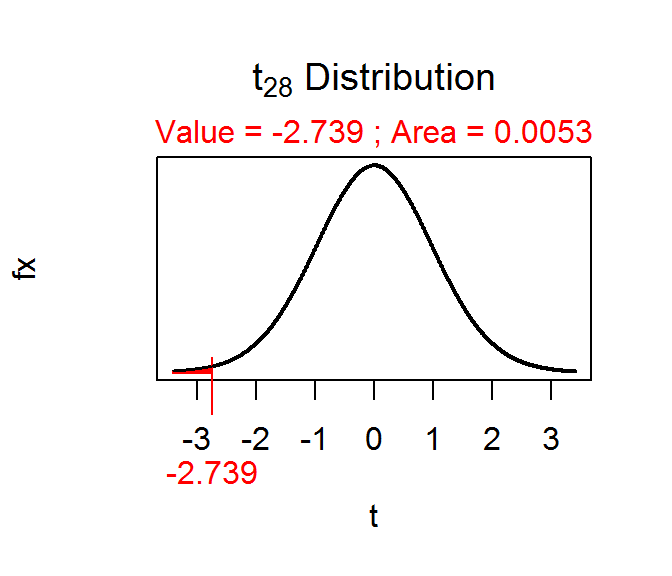
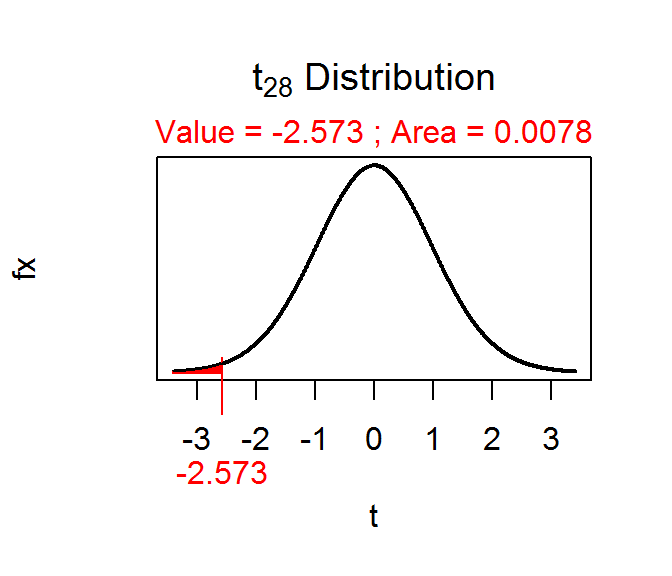
again

diff --git a/resources/ce-keys/2_Sample_t.html b/resources/ce-keys/2_Sample_t.html
@@ -13,12 +13,25 @@ css: "/css/modules.css"
 See below.
 </li>
 <ol type="a">
-<p><img src="2_Sample_t_files/figure-html/unnamed-chunk-3-1.png" title="" alt="" width="336" /></p>
 <li>
-t=-2.739 with 28 df (and noting that s<sub>p</sub><sup>2</sup>=64.000 and SE=2.921).
+t=-2.573 with 28 df (and noting that s<sub>p</sub><sup>2</sup>=72.500 and SE=3.109).
 </li>
 <li>
-p-value=0.0053.
+p-value=0.0078.
+</li>
+<li>
+Reject H<sub>0</sub> because p-value&lt;α.
+</li>
+</ol>
+<li>
+See below.
+</li>
+<ol type="a">
+<li>
+t=1.918 with 33 df (and noting that s<sub>p</sub><sup>2</sup>=3543.273 and SE=20.332).
+</li>
+<li>
+p-value=0.0638.
 </li>
 <li>
 Reject H<sub>0</sub> because p-value&lt;α.

diff --git a/modules/2_Sample_t/CE1.md b/modules/2_Sample_t/CE1.md
@@ -11,8 +11,8 @@ css: "/css/modules.css"
 
 For each situation below, (i) compute the t test statistic, (ii) compute the p-value (include a drawing to support your calculation), and (iii) make a decision about H<sub>0</sub>.
 
-1. &alpha;=0.10, H<sub>A</sub>: &mu;<sub>1</sub>&lt;&mu;<sub>2</sub>, n<sub>1</sub>=n<sub>2</sub>=15, s<sub>1</sub>=8, s<sub>2</sub>=9, x&#772;<sub>1</sub>=79.5, and x&#772;<sub>2</sub>=87.5.
-1. &alpha;=0.10, H<sub>A</sub>: &mu;<sub>1</sub>&lt;&mu;<sub>2</sub>, n<sub>1</sub>=n<sub>2</sub>=15, s<sub>1</sub>=8, s<sub>2</sub>=9, x&#772;<sub>1</sub>=79.5, and x&#772;<sub>2</sub>=97.5.
+1. &alpha;=0.05, H<sub>A</sub>: &mu;<sub>1</sub>&lt;&mu;<sub>2</sub>, n<sub>1</sub>=n<sub>2</sub>=15, s<sub>1</sub>=8, s<sub>2</sub>=9, x&#772;<sub>1</sub>=79.5, and x&#772;<sub>2</sub>=87.5.
+1. &alpha;=0.05, H<sub>A</sub>: &mu;<sub>1</sub>&ne;&mu;<sub>2</sub>, n<sub>1</sub>=20, n<sub>2</sub>=15, s<sub>1</sub>=56, s<sub>2</sub>=64, x&#772;<sub>1</sub>=307, and x&#772;<sub>2</sub>=268.
 
 ----
 
